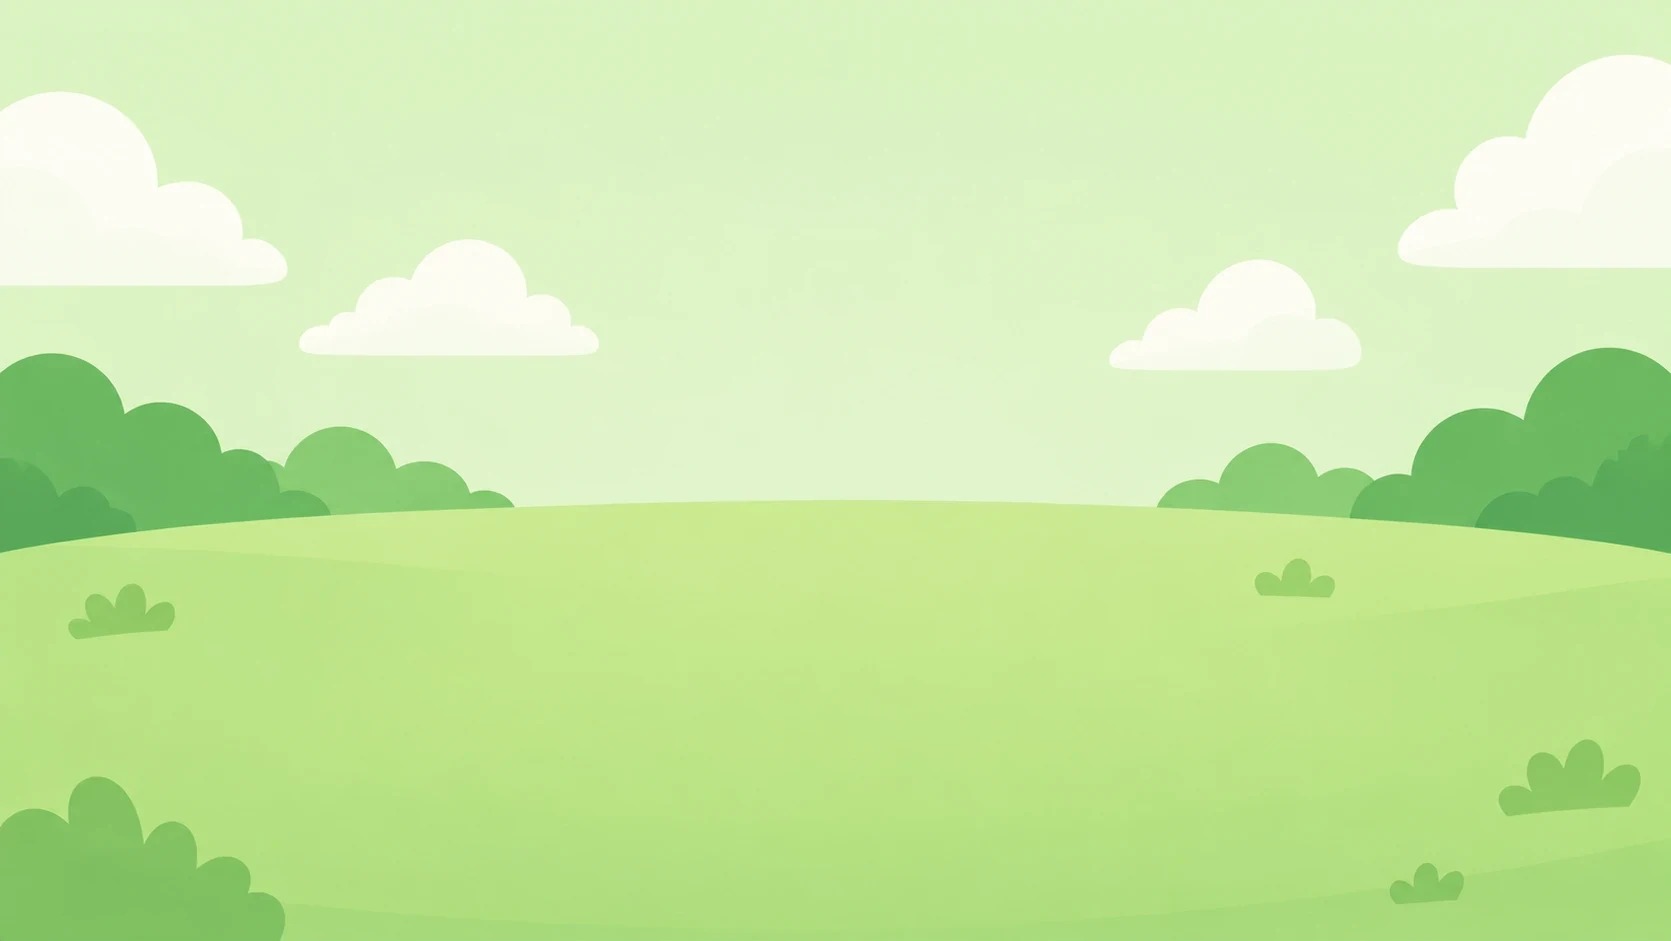
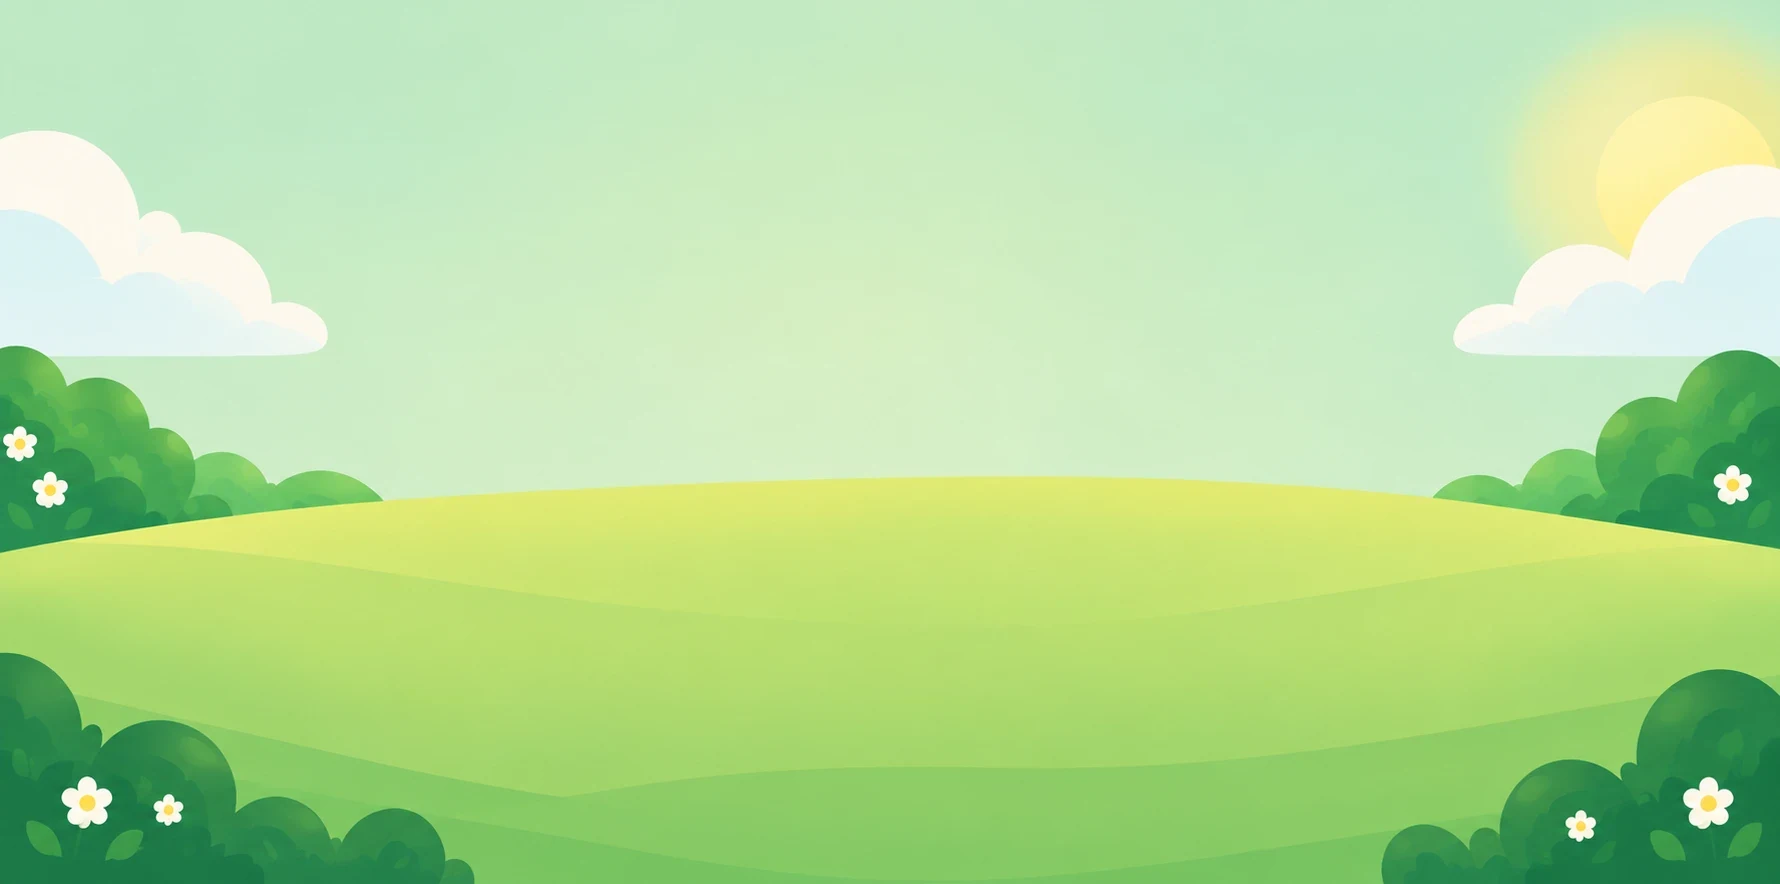
Tô cùng nhau: đổi nền đồng cỏ mới (nắng, hoa) và bảng gỗ sáng, chữ xanh lá, sao và tia sáng hai bên theo mẫu
Claude-Session: https://claude.ai/code/session_01Xqfit1TE88fdJNq9wU4RBg

diff --git a/frontend/src/index.css b/frontend/src/index.css
@@ -1288,18 +1288,27 @@ a.sb-slot:hover { transform: translateY(-1.4cqw) rotate(-0.6deg); z-index: 5; }
 .sh-arrow:disabled { opacity: 0.35; cursor: default; }
 .sh-page { position: absolute; z-index: 5; display: grid; place-items: center; border: max(1px, 0.14cqw) solid #D9B88A; border-radius: 9999px; background: rgba(255, 248, 235, 0.95); font-family: var(--font-display); font-weight: 800; font-size: max(13px, 1.3cqw); color: #6B3A12; }
 
-/* ===== Tô cùng nhau: nền đồng cỏ + tựa là bảng gỗ treo dây ===== */
-.tg-meadow { min-height: calc(100vh - 73px); background: #D6F0B8 url(/together/meadow.webp) center bottom / cover no-repeat; background-attachment: fixed; }
-.tg-head { display: flex; justify-content: center; padding-top: 34px; }
-.tg-sign { position: relative; display: flex; align-items: center; justify-content: center; gap: 16px; padding: 12px 26px 14px; border: 4px solid #C98532; border-radius: 28px; background:
-  repeating-linear-gradient(176deg, rgba(255, 255, 255, 0.16) 0 3px, rgba(255, 255, 255, 0) 3px 14px),
-  linear-gradient(#FFD38A, #F6B15A 70%, #F0A24A);
-  box-shadow: inset 0 3px 0 rgba(255, 255, 255, 0.6), 0 10px 18px rgba(90, 60, 20, 0.28); }
-.tg-rope { position: absolute; top: -34px; width: 8px; height: 40px; border-radius: 4px; background: repeating-linear-gradient(115deg, #D79A55 0 4px, #8A4A15 4px 7px); box-shadow: 0 0 0 1.5px #7A3F10; }
-.tg-rope-l { left: 18%; }
-.tg-rope-r { right: 18%; }
-.tg-sign-badge { display: block; width: 56px; height: 56px; flex: none; }
-.tg-sign-title { margin: 0; font-family: var(--font-display); font-weight: 800; line-height: 1.05; font-size: clamp(28px, 5vw, 52px); color: #6A3A0E; text-shadow: 0 2px 0 rgba(255, 235, 190, 0.7); }
-.tg-sign-art { display: none; width: 150px; height: 84px; flex: none; }
-@media (min-width: 900px) { .tg-sign-art { display: block; } .tg-sign-badge { width: 72px; height: 72px; } }
-@media (max-width: 520px) { .tg-sign { gap: 10px; padding: 10px 16px 12px; } .tg-sign-badge { width: 44px; height: 44px; } }
+/* ===== Tô cùng nhau: nền đồng cỏ + tựa là bảng gỗ sáng treo dây ===== */
+.tg-meadow { min-height: calc(100vh - 73px); background: #C8E9B9 url(/together/meadow.webp) center bottom / cover no-repeat; background-attachment: fixed; }
+.tg-head { display: flex; justify-content: center; padding-top: 40px; }
+.tg-sign { position: relative; display: flex; align-items: center; justify-content: center; gap: 14px; min-width: min(100%, 560px); padding: 14px 64px 16px; border: 3px solid #E8A53D; border-radius: 30px / 26px; background:
+  radial-gradient(ellipse at 30% 20%, rgba(255, 255, 255, 0.5), rgba(255, 255, 255, 0) 55%),
+  linear-gradient(#FFE08A, #FDD07A 60%, #F9C26A);
+  box-shadow: inset 0 3px 0 rgba(255, 255, 255, 0.7), inset 0 -3px 0 rgba(220, 150, 50, 0.35), 0 10px 18px rgba(60, 100, 40, 0.25); }
+.tg-rope { position: absolute; top: -46px; width: 9px; height: 56px; background: repeating-linear-gradient(120deg, #B97B3F 0 4px, #8A5424 4px 7px); box-shadow: 0 0 0 1.5px rgba(90, 50, 20, 0.5); }
+.tg-rope i { position: absolute; left: 50%; bottom: -6px; width: 26px; height: 20px; margin-left: -13px; border-radius: 9999px 9999px 8px 8px; background: #B97B3F; box-shadow: inset 0 0 0 3px #8A5424; }
+.tg-rope-l { left: 16%; }
+.tg-rope-r { right: 16%; }
+.tg-star { position: absolute; top: 50%; width: 30px; height: 30px; margin-top: -15px; }
+.tg-star-l { left: 14px; transform: rotate(-12deg); }
+.tg-star-r { right: 14px; transform: rotate(12deg); }
+.tg-ray { position: absolute; width: 38px; height: 11px; border-radius: 9999px; background: #FFD84D; box-shadow: 0 2px 0 #F3B21A; }
+.tg-ray-l1 { left: -52px; top: 2px; transform: rotate(32deg); }
+.tg-ray-l2 { left: -56px; top: 48%; width: 28px; height: 9px; }
+.tg-ray-r1 { right: -52px; top: 2px; transform: rotate(-32deg); }
+.tg-ray-r2 { right: -56px; top: 48%; width: 28px; height: 9px; }
+.tg-sign-badge { display: block; width: 64px; height: 64px; flex: none; }
+.tg-sign-title { margin: 0; font-family: var(--font-display); font-weight: 800; line-height: 1.05; font-size: clamp(28px, 4.6vw, 50px); color: #1B9A3C; -webkit-text-stroke: 0; text-shadow: 0 2px 0 rgba(255, 255, 255, 0.55); }
+.tg-sign-art { display: none; width: 120px; height: 72px; flex: none; }
+@media (min-width: 900px) { .tg-sign-art { display: block; } .tg-sign-badge { width: 74px; height: 74px; } }
+@media (max-width: 520px) { .tg-sign { gap: 8px; padding: 10px 40px 12px; min-width: 0; } .tg-sign-badge { width: 40px; height: 40px; } .tg-star { width: 22px; height: 22px; margin-top: -11px; } .tg-star-l { left: 8px; } .tg-star-r { right: 8px; } .tg-ray-l1, .tg-ray-l2, .tg-ray-r1, .tg-ray-r2 { display: none; } .tg-rope-l { left: 12%; } .tg-rope-r { right: 12%; } }

diff --git a/frontend/src/pages/Collaborative/Together.jsx b/frontend/src/pages/Collaborative/Together.jsx
@@ -31,6 +31,14 @@ function PaletteBadge() {
   );
 }
 
+function TgStar({ className }) {
+  return (
+    <svg viewBox="-24 -24 48 48" className={className} aria-hidden="true">
+      <path d="M0 -20 L6 -6.5 L20 -5.5 L9.5 4 L12.5 18 L0 10.5 L-12.5 18 L-9.5 4 L-20 -5.5 L-6 -6.5 Z" fill="#FFD84D" stroke="#F3B21A" strokeWidth="4" strokeLinejoin="round" />
+    </svg>
+  );
+}
+
 export default function Together() {
   const { t } = useTranslation();
   const token = useAuth((s) => s.token);
@@ -57,8 +65,14 @@ export default function Together() {
       {/* Đầu trang: bảng gỗ treo dây */}
       <section className="tg-head">
         <div className="tg-sign">
-          <span className="tg-rope tg-rope-l" aria-hidden="true" />
-          <span className="tg-rope tg-rope-r" aria-hidden="true" />
+          <span className="tg-rope tg-rope-l" aria-hidden="true"><i /></span>
+          <span className="tg-rope tg-rope-r" aria-hidden="true"><i /></span>
+          <TgStar className="tg-star tg-star-l" />
+          <TgStar className="tg-star tg-star-r" />
+          <i className="tg-ray tg-ray-l1" aria-hidden="true" />
+          <i className="tg-ray tg-ray-l2" aria-hidden="true" />
+          <i className="tg-ray tg-ray-r1" aria-hidden="true" />
+          <i className="tg-ray tg-ray-r2" aria-hidden="true" />
           <span className="tg-sign-badge" aria-hidden="true"><PaletteBadge /></span>
           <h1 className="tg-sign-title" data-testid="together-title">{t('together.title')}</h1>
           <span className="tg-sign-art" aria-hidden="true"><TogetherArt /></span>
